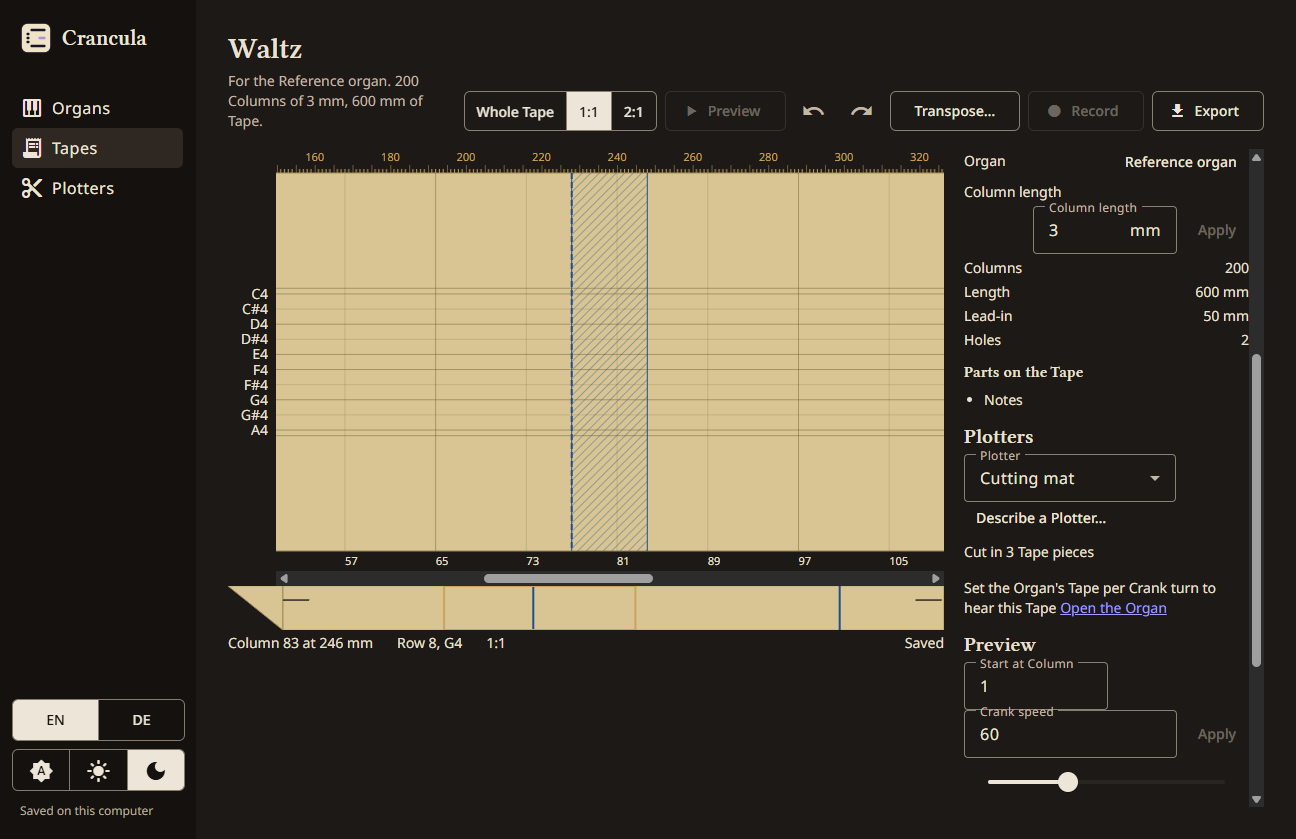
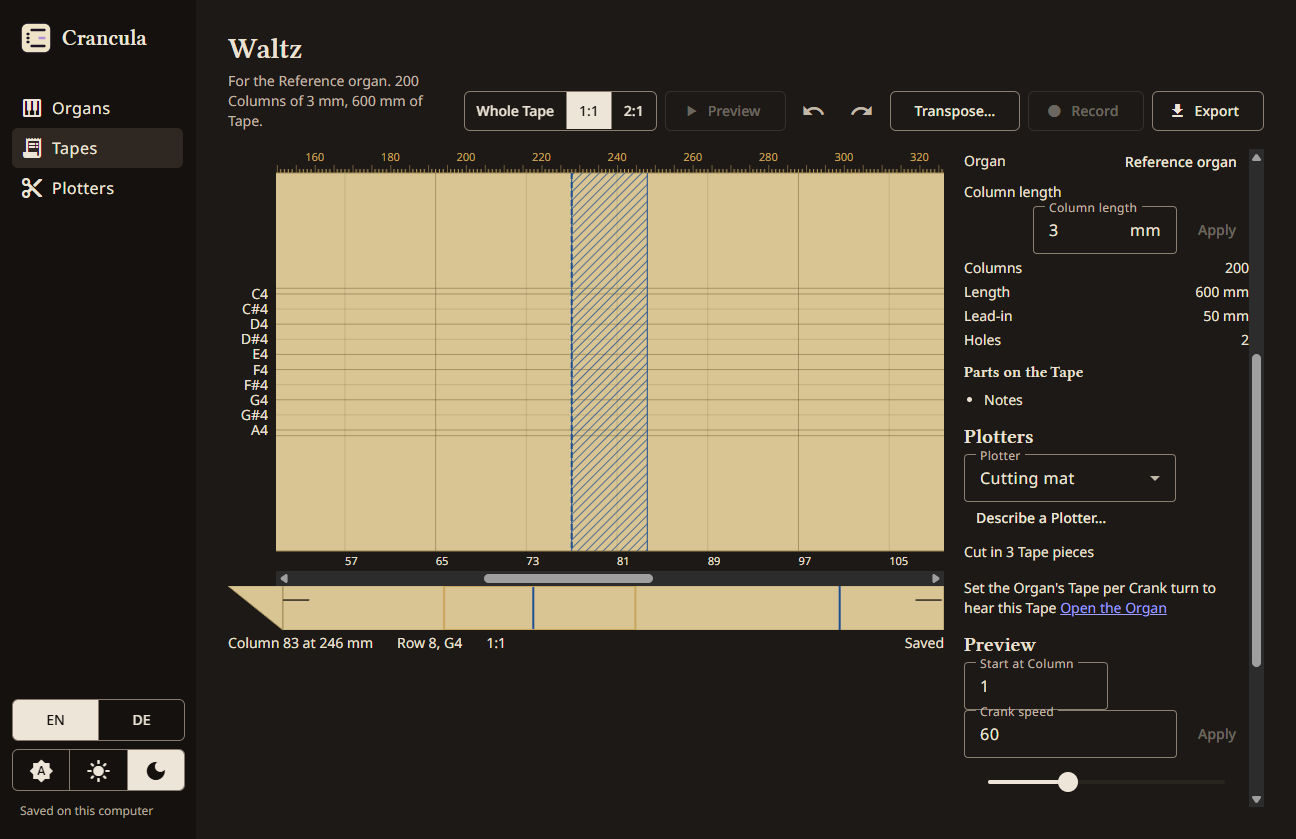
docs(011): contrast measured on rendered pixels; retake the Tape pieces screens (#190)

Changed region(s): [[0.4321, 0.2169, 0.4938, 0.6508], [0.3704, 0.124, 0.4321, 0.1549]]

diff --git a/specs/011-cut-a-tape-in-pieces/ux-review.md b/specs/011-cut-a-tape-in-pieces/ux-review.md
@@ -68,3 +68,25 @@ The paper stays tan in dark mode, so both schemes behave alike: the fills fail, 
 - The empty Plotter list guides onward with one primary action and a scissors icon that matches the rail.
 - The Plotter list's "300 × 120 mm" / "roll, 90 mm wide" summary is compact and in millimetres.
 - German texts fit; the compact page-head icons keep the Tape the visual centre in 26b.
+
+## Contrast measured (#190)
+
+Measured on the rendered pixels of `npm run ux:screens` at 1×, Whole Tape: `26-tape-view-joins` (+ `-dark`) for the Overlap
+band, `27-tape-view-no-join-stretch` (+ `-dark`) for the stretch. Ink is the hatch: the Overlap pixels with blue over red
+(b − r > −15), the stretch pixels with r − g > 40 (drops the label, Holes and row guides). Neighbour is the Tape next to the
+mark (mode). Ratio is WCAG 2 on sRGB relative luminance. Criterion: the **p10** ink pixel (the darkest 10 %, so one
+anti-aliased peak does not decide it) at ≥ 3:1 against the Tape.
+
+| Mark (light / dark) | Before: p10 ink | After: p10 ink | Before: darkest / mean | After: darkest / mean |
+|---------------------|-----------------|----------------|------------------------|-----------------------|
+| Overlap hatch | 2.15:1 (#8f948b) / 2.01:1 (#878c85) | **3.40:1** (#627382) / **3.05:1** (#526f90) | 2.99 / 1.81 ; 2.71 / 1.74 | 4.31 / 2.43 ; 3.81 / 2.28 |
+| Stretch hatch | 2.80:1 (#a67359) / 2.59:1 (#9a6f51) | **4.23:1** (#925041) / **3.77:1** (#8f4c3d) | 4.55 / 2.33 ; 4.00 / 2.18 | 6.30 / 2.92 ; 5.57 / 2.68 |
+| Stretch ground (tint, 0.2) | 1.38:1 (#d2b38a) / 1.35:1 (#c5a67d) | unchanged | – | – |
+
+Tape neighbour: #e8d6a4 (light), #d8c593 (dark). The fix is the hatch stroke opacity, not a colour token: `.overlap-hatch`
+0.5 → 1 and `.stretch-hatch` 0.6 → 1 in `tape-view.component.scss`. Both schemes use the same token, so both move.
+
+Remaining, by design: the mean over the band stays at 2.3–2.9:1 because the hatch has gaps; the lines carry the 3:1.
+The Overlap edges are 1 px solid Join colour (5.6:1 as a solid colour), and the stretch outline is 2 px oxblood (4.9:1 in
+the review above). The stretch ground tint stays at 1.4:1: it is a hint, and the hatch and the outline mark the stretch.
+Not re-measured: the 1:1 captures (`26c-…`, `26b-…`), which use the same tokens at a different scale.
